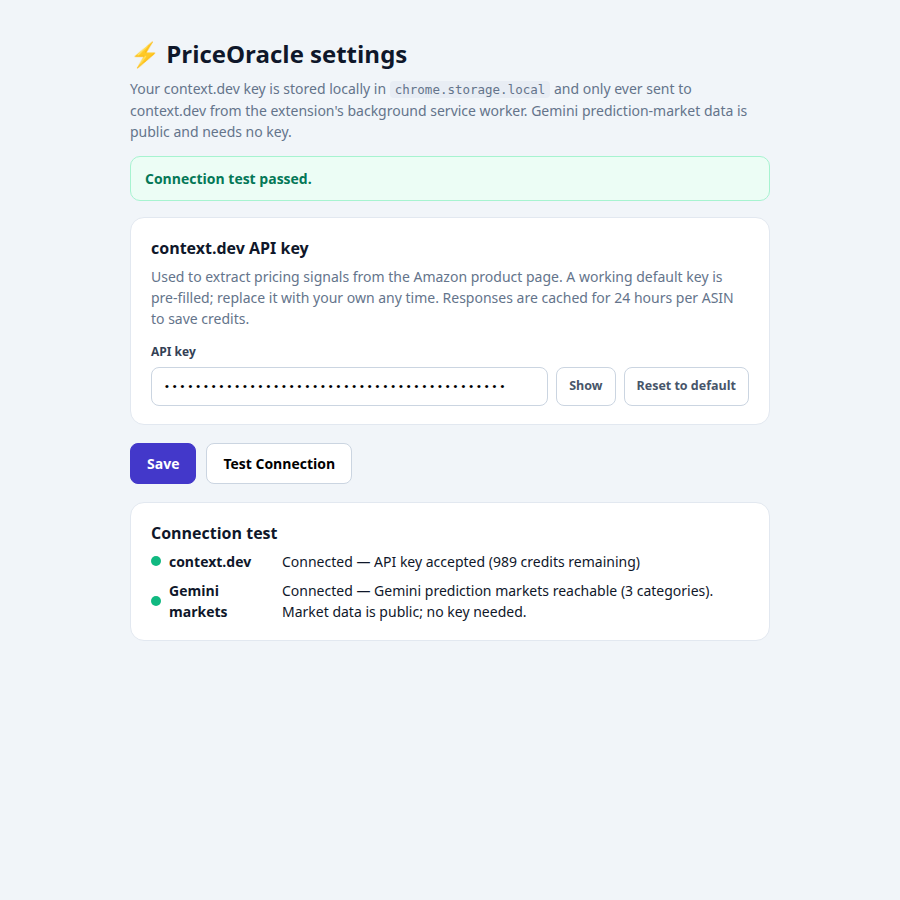
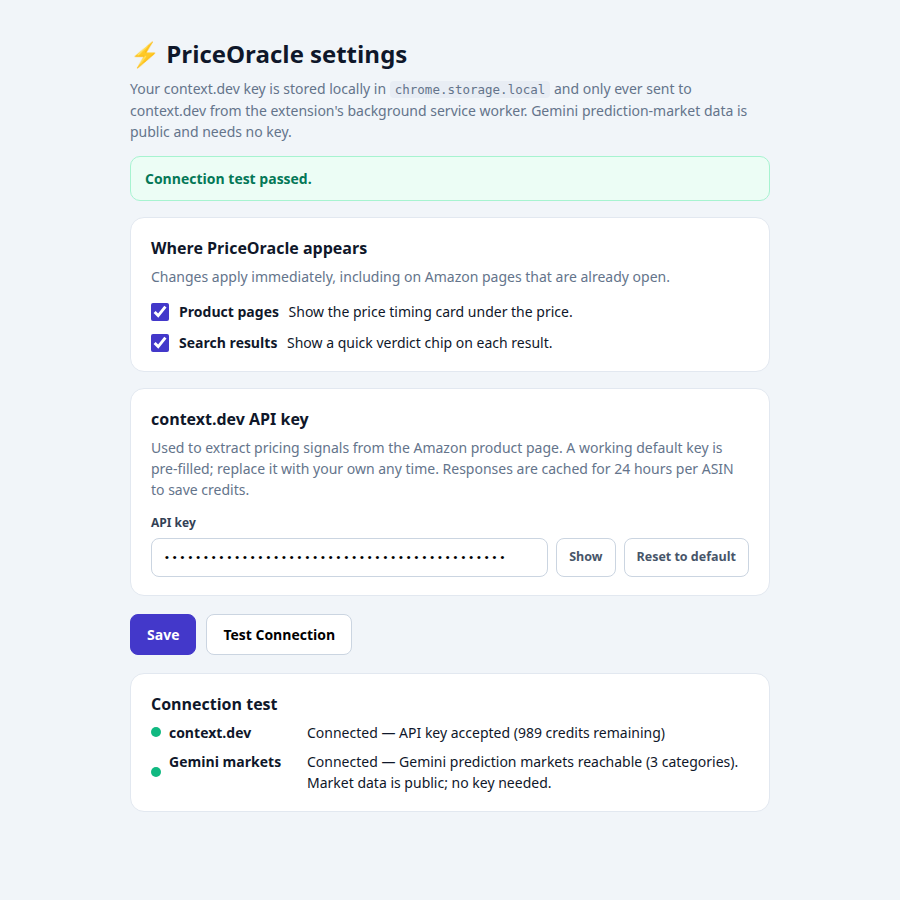
1.2.0: options switches (live), keyboard-accessible chips, data freshness tooltip

Changed region(s): [[0.1244, 0.2489, 0.84, 0.7467], [0.3422, 0.8089, 0.8089, 0.9022], [0.1556, 0.7778, 0.3111, 0.8711]]

diff --git a/amazon-price-oracle/src/content/search-results.js b/amazon-price-oracle/src/content/search-results.js
@@ -19,7 +19,7 @@
   'use strict';
 
   const PO = root.PriceOracle;
-  if (!PO || !PO.Parser || !PO.Widget || !PO.send) return;
+  if (!PO || !PO.Parser || !PO.Widget || !PO.send || !PO.settings) return;
   if (!PO.Parser.isSearchPage(location)) return;
   if (root.__priceOracleSearchLoaded) return;
   root.__priceOracleSearchLoaded = true;
@@ -32,13 +32,14 @@
   const VIEWPORT_MARGIN = '400px 0px';
 
   /** @type {WeakMap<Element, CardState>} */
-  const cards = new WeakMap();
+  let cards = new WeakMap();
   const queue = [];
   let active = 0;
   let debounceTimer = null;
   let intersection = null;
   let mutationObserver = null;
   let observedRoot = null;
+  let enabled = false;
 
   /**
    * @typedef {Object} CardState
@@ -85,6 +86,13 @@
     /** @type {CardState} */
     const state = { host, shadow, signature, product, view: { status: 'loading' }, seq: 0, queued: false };
     shadow.addEventListener('click', (event) => onClick(card, state, event));
+    shadow.addEventListener('keydown', (event) => {
+      if (event.key === 'Escape' && state.view.expanded) {
+        state.view = { ...state.view, expanded: false };
+        paint(state);
+        shadow.querySelector('.pc-chip')?.focus();
+      }
+    });
     cards.set(card, state);
     return state;
   }
@@ -146,6 +154,11 @@
     pump();
   }
 
+  /** Re-rendering replaces the button, so hand keyboard focus back to the new one. */
+  function focusChip(state) {
+    state.shadow.querySelector('.pc-chip')?.focus({ preventScroll: true });
+  }
+
   function onClick(card, state, event) {
     const target = event.target instanceof Element ? event.target.closest('[data-action]') : null;
     if (!target) return;
@@ -155,6 +168,7 @@
     if (action === 'toggle' && state.view.status === 'ready') {
       state.view = { ...state.view, expanded: !state.view.expanded };
       paint(state);
+      focusChip(state);
     } else if (action === 'retry') {
       enqueue(state);
     } else if (action === 'deep' && !state.view.deepLoading) {
@@ -219,6 +233,7 @@
   function scheduleScan() {
     clearTimeout(debounceTimer);
     debounceTimer = setTimeout(() => {
+      if (!enabled) return;
       attachObserver();
       scan();
     }, DEBOUNCE_MS);
@@ -249,12 +264,33 @@
     mutationObserver.observe(target, { childList: true, subtree: true });
   }
 
-  function init() {
+  function enable() {
+    if (enabled) return;
+    enabled = true;
     ensureIntersection();
     attachObserver();
     scan();
+  }
+
+  /** Remove every chip and stop watching the page (the "show chips" switch was turned off). */
+  function disable() {
+    enabled = false;
+    clearTimeout(debounceTimer);
+    if (mutationObserver) mutationObserver.disconnect();
+    mutationObserver = null;
+    observedRoot = null;
+    if (intersection) intersection.disconnect();
+    intersection = null;
+    queue.length = 0;
+    cards = new WeakMap(); // pending responses then paint into detached hosts
+    document.querySelectorAll(`[${HOST_ATTR}]`).forEach((el) => el.remove());
+  }
+
+  async function init() {
     window.addEventListener('popstate', scheduleScan);
     window.addEventListener('pageshow', scheduleScan);
+    PO.settings.watch('searchChips', (on) => (on ? enable() : disable()));
+    if (await PO.settings.get('searchChips')) enable();
   }
 
   init();

diff --git a/amazon-price-oracle/src/options/options.css b/amazon-price-oracle/src/options/options.css
@@ -12,7 +12,7 @@ a { color: var(--accent); }
 .tag { font-size: 11px; font-weight: 700; color: var(--muted); background: #f1f5f9; border: 1px solid var(--line); border-radius: 999px; padding: 1px 8px; vertical-align: middle; margin-left: 6px; }
 label { display: block; font-size: 12px; font-weight: 700; color: #334155; margin-bottom: 6px; }
 .field { display: flex; gap: 8px; }
-input { flex: 1; min-width: 0; padding: 9px 11px; border: 1px solid #cbd5e1; border-radius: 8px; font: 13px ui-monospace, SFMono-Regular, Menlo, monospace; }
+input:not([type=checkbox]) { flex: 1; min-width: 0; padding: 9px 11px; border: 1px solid #cbd5e1; border-radius: 8px; font: 13px ui-monospace, SFMono-Regular, Menlo, monospace; }
 .state { margin: 10px 0 0; font-size: 12.5px; color: var(--muted); }
 .actions { display: flex; gap: 10px; margin: 18px 0; }
 .btn { font: inherit; font-weight: 600; padding: 9px 16px; border-radius: 8px; border: 1px solid #cbd5e1; background: #fff; cursor: pointer; white-space: nowrap; }
@@ -27,8 +27,12 @@ input { flex: 1; min-width: 0; padding: 9px 11px; border: 1px solid #cbd5e1; bor
 .banner.err { background: #fef2f2; color: #b91c1c; border-color: #fecaca; }
 .banner.info { background: #eef2ff; color: #3730a3; border-color: #c7d2fe; }
 .results ul { list-style: none; padding: 0; margin: 0; display: grid; gap: 8px; }
-.results li { display: grid; grid-template-columns: 10px 105px 1fr; align-items: baseline; gap: 8px; }
+.results li { display: grid; grid-template-columns: 10px 130px 1fr; align-items: baseline; gap: 8px; }
 .dot { width: 10px; height: 10px; border-radius: 50%; background: #cbd5e1; flex: none; align-self: center; }
 .dot.ok { background: #10b981; }
 .dot.err { background: #ef4444; }
 .dot.skip { background: #f59e0b; }
+.switch { display: flex; align-items: flex-start; gap: 10px; margin: 0 0 10px; font-weight: 400; font-size: 14px; color: var(--ink); cursor: pointer; }
+.switch:last-child { margin-bottom: 0; }
+.switch input { width: 18px; height: 18px; margin: 2px 0 0; flex: none; accent-color: var(--accent); cursor: pointer; }
+.switch strong { margin-right: 6px; }

diff --git a/amazon-price-oracle/src/content/content.js b/amazon-price-oracle/src/content/content.js
@@ -12,7 +12,7 @@
   'use strict';
 
   const PO = root.PriceOracle;
-  if (!PO || !PO.Parser || !PO.Widget || !PO.send) return;
+  if (!PO || !PO.Parser || !PO.Widget || !PO.send || !PO.settings) return;
   if (root.__priceOracleLoaded) return;
   root.__priceOracleLoaded = true;
 
@@ -30,6 +30,7 @@
   let observedNode = null;
   let debounceTimer = null;
   let lastParsed = null;
+  let enabled = false;
 
   function isProductPage() {
     return /\/(?:dp|gp\/product)\//i.test(location.pathname) || Boolean(document.querySelector('#ASIN'));
@@ -139,6 +140,7 @@
   function scheduleRefresh() {
     clearTimeout(debounceTimer);
     debounceTimer = setTimeout(() => {
+      if (!enabled) return;
       attachObserver();
       refresh();
     }, DEBOUNCE_MS);
@@ -165,12 +167,31 @@
     observer.observe(target, { childList: true, subtree: true, characterData: true, attributes: true, attributeFilter: ['value'] });
   }
 
-  function init() {
-    if (!isProductPage()) return;
+  function enable() {
+    if (enabled) return;
+    enabled = true;
     attachObserver();
     refresh();
+  }
+
+  /** Remove the card and stop watching the page (the "show card" switch was turned off). */
+  function disable() {
+    enabled = false;
+    clearTimeout(debounceTimer);
+    if (observer) observer.disconnect();
+    observer = null;
+    observedNode = null;
+    requestSeq++; // drop any response still in flight
+    signature = '';
+    if (host) host.remove();
+  }
+
+  async function init() {
+    if (!isProductPage()) return;
     window.addEventListener('popstate', scheduleRefresh);
     window.addEventListener('pageshow', scheduleRefresh);
+    PO.settings.watch('productCard', (on) => (on ? enable() : disable()));
+    if (await PO.settings.get('productCard')) enable();
   }
 
   init();

diff --git a/amazon-price-oracle/src/content/widget-template.js b/amazon-price-oracle/src/content/widget-template.js
@@ -153,6 +153,16 @@
       </div>`;
   }
 
+  /** "3 h ago" style age for tooltips. */
+  function ago(ts) {
+    if (!ts) return '';
+    const mins = Math.max(0, Math.round((Date.now() - ts) / 60000));
+    if (mins < 1) return 'just now';
+    if (mins < 60) return `${mins} min ago`;
+    const hours = Math.round(mins / 60);
+    return hours < 24 ? `${hours} h ago` : `${Math.round(hours / 24)} d ago`;
+  }
+
   function renderContextChip(context) {
     if (!context) return '';
     if (context.status === 'error') {
@@ -162,7 +172,8 @@
       return '<span class="po-chip warn" title="Quick estimate from page data"><i class="po-dot"></i>context.dev: Not used (quick estimate)</span>';
     }
     const suffix = context.fromCache ? ' (cached)' : '';
-    return `<span class="po-chip" title="${context.signalCount} pricing signals"><i class="po-dot"></i>context.dev: Connected${suffix}</span>`;
+    const fetched = context.fetchedAt ? `, fetched ${ago(context.fetchedAt)}` : '';
+    return `<span class="po-chip" title="${context.signalCount} pricing signals${fetched}"><i class="po-dot"></i>context.dev: Connected${suffix}</span>`;
   }
 
   function renderGeminiStatus(gemini) {
@@ -335,7 +346,7 @@
       : '';
 
     return `
-      <div class="pc-panel">
+      <div class="pc-panel" role="region" aria-label="PriceOracle 30-day price outlook">
         <div class="pc-msg">${escapeHtml(recommendation.message)} <span class="pc-note">(${confidence}% confidence)</span></div>
         <div class="pc-tiers" aria-label="30-day projected price tiers">${cells}</div>
         <div class="pc-note">30-day: ${pct} (${sign}${usd(Math.abs(deltaAmount))}) · ${gemini}</div>

diff --git a/amazon-price-oracle/src/options/options.js b/amazon-price-oracle/src/options/options.js
@@ -4,6 +4,11 @@
 import { DEFAULT_CONTEXT_DEV_KEY, MSG, STORAGE_KEYS } from '../shared/constants.js';
 
 const $ = (id) => document.getElementById(id);
+/** Checkbox id -> storage key. Absent in storage means on. */
+const SWITCHES = {
+  'show-product-card': STORAGE_KEYS.SHOW_PRODUCT_CARD,
+  'show-search-chips': STORAGE_KEYS.SHOW_SEARCH_CHIPS
+};
 let bannerTimer = null;
 
 function banner(text, kind) {
@@ -18,6 +23,8 @@ function banner(text, kind) {
 async function load() {
   const stored = await chrome.storage.local.get(STORAGE_KEYS.CONTEXT_KEY);
   $('context-key').value = (stored[STORAGE_KEYS.CONTEXT_KEY] || '').trim() || DEFAULT_CONTEXT_DEV_KEY;
+  const shown = await chrome.storage.local.get(Object.keys(SWITCHES).map((id) => SWITCHES[id]));
+  for (const [id, key] of Object.entries(SWITCHES)) $(id).checked = shown[key] !== false;
 }
 
 async function save(event) {
@@ -81,5 +88,11 @@ $('reset-context').addEventListener('click', () => {
 });
 $('form').addEventListener('submit', (e) => save(e).catch((err) => banner(`Could not save: ${err.message}`, 'err')));
 $('test').addEventListener('click', testConnection);
+for (const [id, key] of Object.entries(SWITCHES)) {
+  $(id).addEventListener('change', async (e) => {
+    await chrome.storage.local.set({ [key]: e.target.checked });
+    banner(e.target.checked ? 'Turned on.' : 'Turned off.', 'ok');
+  });
+}
 
 load();

diff --git a/amazon-price-oracle/src/content/messaging.js b/amazon-price-oracle/src/content/messaging.js
@@ -1,5 +1,8 @@
 /**
- * Messaging helper shared by the content scripts.
+ * Messaging and settings helpers shared by the content scripts.
+ *
+ * `PriceOracle.settings.get(name)` / `.watch(name, cb)` read the on/off switches from the options page
+ * (`productCard`, `searchChips`; absent means on) and report changes live.
  *
  * Exposes `globalThis.PriceOracle.send(message)`, which resolves with the
  * service worker's `data` or rejects with an Error. Compared to a bare
@@ -53,4 +56,27 @@
   }
 
   PO.send = send;
+
+  /** Mirrors STORAGE_KEYS in src/shared/constants.js (content scripts cannot import modules). */
+  const SETTING_KEYS = { productCard: 'show_product_card', searchChips: 'show_search_chips' };
+
+  PO.settings = {
+    async get(name) {
+      try {
+        const stored = await chrome.storage.local.get(SETTING_KEYS[name]);
+        return stored[SETTING_KEYS[name]] !== false;
+      } catch (_err) {
+        return true;
+      }
+    },
+    watch(name, callback) {
+      try {
+        chrome.storage.onChanged.addListener((changes, area) => {
+          if (area === 'local' && SETTING_KEYS[name] in changes) callback(changes[SETTING_KEYS[name]].newValue !== false);
+        });
+      } catch (_err) {
+        /* extension was reloaded; nothing to watch */
+      }
+    }
+  };
 })(globalThis);

diff --git a/amazon-price-oracle/src/options/options.html b/amazon-price-oracle/src/options/options.html
@@ -15,6 +15,19 @@
 
     <div id="banner" class="banner" role="status" hidden></div>
 
+    <section class="panel" aria-labelledby="where-title">
+      <h2 id="where-title">Where PriceOracle appears</h2>
+      <p class="help">Changes apply immediately, including on Amazon pages that are already open.</p>
+      <label class="switch" for="show-product-card">
+        <input id="show-product-card" type="checkbox" />
+        <span><strong>Product pages</strong> Show the price timing card under the price.</span>
+      </label>
+      <label class="switch" for="show-search-chips">
+        <input id="show-search-chips" type="checkbox" />
+        <span><strong>Search results</strong> Show a quick verdict chip on each result.</span>
+      </label>
+    </section>
+
     <form id="form" autocomplete="off">
       <section class="panel">
         <h2>context.dev API key</h2>

diff --git a/amazon-price-oracle/src/shared/constants.js b/amazon-price-oracle/src/shared/constants.js
@@ -28,6 +28,8 @@ export const STORAGE_KEYS = Object.freeze({
   CONTEXT_KEY: 'context_dev_api_key',
   CONTEXT_CACHE: 'context_cache',
   MACRO_CACHE: 'gemini_macro_cache',
+  SHOW_PRODUCT_CARD: 'show_product_card',
+  SHOW_SEARCH_CHIPS: 'show_search_chips',
   LAST_ANALYSIS: 'last_analysis',
   ANALYSIS_COUNT: 'analysis_count'
 });

diff --git a/README.md b/README.md
@@ -148,10 +148,10 @@ Key properties:
 | `src/content/amazon-parser.js` | `PriceOracle.Parser`: ASIN (`#ASIN`, URL regex fallback), price (multiple selector fallbacks, `.a-offscreen` and whole/fraction), list price, category (breadcrumb, dropdown, nav), title, rating; `parseProduct()` returns null on non-product pages or when no price is present. Search helpers: `isSearchPage`, `getSearchCategory`, `getSearchCards`, `parseSearchCard`. |
 | `src/content/widget-template.js` | `PriceOracle.Widget.render(state)`: returns the Shadow DOM HTML plus the isolated CSS for loading / error / ready states, the pill badges, the five-tier range bar and pin (`pinPosition` interpolates between tiers). `renderChip(state)` renders the compact search-result chip and its expandable panel. Re-asserts inheritable CSS properties on the card because the host element lives in Amazon's DOM. |
 | `src/content/content.js` | Entry point. Finds the anchor (after `#corePriceDisplay_desktop_feature_div`, else top of `#buybox`, else other price containers), creates one Shadow DOM host (`#price-oracle-host`), sends analysis requests, ignores stale responses (request sequence counter), observes the product container with a debounced `MutationObserver`, re-attaches the host if Amazon re-renders the DOM. |
-| `src/content/messaging.js` | `PriceOracle.send(message)`: `chrome.runtime.sendMessage` with one retry when the worker was asleep and a 90 s timeout. Both content scripts use it. |
+| `src/content/messaging.js` | `PriceOracle.send(message)`: `chrome.runtime.sendMessage` with one retry when the worker was asleep and a 90 s timeout. `PriceOracle.settings.get/watch` read the options switches and report changes live. Both content scripts use them. |
 | `src/content/search-results.js` | Search-page entry point (runs only on `/s` URLs): chip placement, lazy analysis queue (concurrency 4), chip click handling (expand, retry, deep analysis), observers for lazily loaded cards. |
 | `src/popup/popup.html/.css/.js` | Toolbar popup: last analysed product, counters, connection status badges, clear-cache button. |
-| `src/options/options.html/.css/.js` | Settings page: context.dev key (pre-filled with the default; saving the default removes the stored override), **Test Connection** (tests unsaved form values via the worker), status banner. |
+| `src/options/options.html/.css/.js` | Settings page: "Where PriceOracle appears" switches (saved immediately), context.dev key (pre-filled with the default; saving the default removes the stored override), **Test Connection** (tests unsaved form values via the worker), status banner. |
 | `src/welcome/welcome.html/.css` | Post-install tab: no setup needed, link to a sample product, pin tip. |
 
 ### Tooling and tests (`amazon-price-oracle/`)
@@ -232,6 +232,7 @@ deltaPercentMonth <= -4.0  ->  WAIT        >= +4.0  ->  BUY NOW        otherwise
 | `context_dev_api_key` | User override of the context.dev key. Absent means "use the shipped default". |
 | `context_cache` | `{ [ASIN]: { fetchedAt, signals, error? } }`, 24 h TTL, max 200 entries. |
 | `gemini_macro_cache` | Last macro signal, 3 h TTL, reused up to 24 h if Gemini is unreachable (`stale: true`). |
+| `show_product_card`, `show_search_chips` | Options switches. Absent means on; `false` turns that surface off. Content scripts watch `chrome.storage.onChanged` and add or remove the UI live. |
 | `last_analysis`, `analysis_count` | Popup display data. |
 
 Messages (content/popup/options to worker), names in `MSG`:

diff --git a/CHANGELOG.md b/CHANGELOG.md
@@ -5,6 +5,17 @@ the 5-tier 30-day projection (formulas in the README), the WAIT / BUY NOW / FAIR
 (-4% / +4%), the Shadow DOM card on product pages, the context.dev + Gemini markets inputs, and the
 heuristic fallback.
 
+## 1.2.0 - Controls and accessibility
+
+- Options page has two switches, **Product pages** and **Search results**. They save immediately and apply live
+  on open Amazon tabs (content scripts watch `chrome.storage.onChanged`); a switch that is off also stays off on
+  newly opened pages and costs nothing (no observers, no requests).
+- Search chips are keyboard accessible: Enter or Space expands, Escape collapses, and focus returns to the chip
+  after each re-render. The expanded panel is a labelled region for screen readers.
+- The context.dev chip tooltip shows how old the data is ("fetched 3 h ago").
+- E2E now also covers the switches (live off and on, persistence across new pages) and keyboard use. 24 unit
+  tests and 21 end-to-end checks.
+
 ## 1.1.1 - Reliability
 
 - Fixed a lost-update race in the context.dev cache: analyses finishing at the same time (search pages)

diff --git a/docs/USER_GUIDE.md b/docs/USER_GUIDE.md
@@ -88,6 +88,7 @@ Click the PriceOracle icon to see the last product you looked at, how many analy
 
 You don't need to change anything. To open settings, right-click the PriceOracle icon and choose **Options**, or click the gear in the popup.
 
+- **Where PriceOracle appears:** two switches, **Product pages** and **Search results**. They take effect immediately, even on Amazon tabs that are already open. Turn one off if you only want the other.
 - **context.dev API key:** a working key is already filled in. Replace it with your own if you have one. **Reset to default** puts the built-in key back.
 - **Test Connection:** checks that both services are reachable and that your key is accepted, without using any credits.
 - Click **Save** to keep changes.
